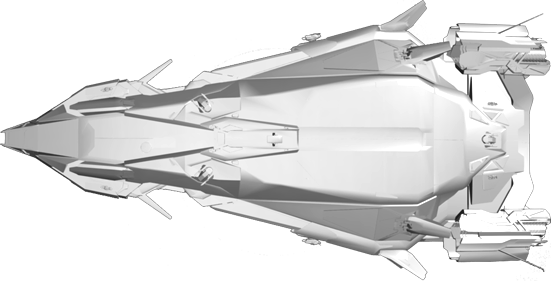
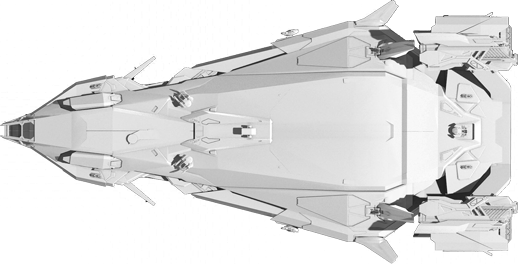
updated Polaris image, and fixed issue where form was appearing for unitMember management when saving changes to unit itself

diff --git a/admin/admin_unit.php b/admin/admin_unit.php
@@ -712,7 +712,7 @@
 				</div>				
 			</fieldset>
 			<div class="adminDialogButtonPane">
-				<button id="adminDialogSubmit" class="adminButton adminButtonEdit" type="submit" title="Update Unit">
+				<button id="adminDialogSubmit" class="adminButton adminButtonSave" type="submit" title="Update Unit">
 					<img height="20px" class="adminButtonImage" src="http://sc.vvarmachine.com/images/misc/button_save.png">		
 					Save Changes
 				</button>
